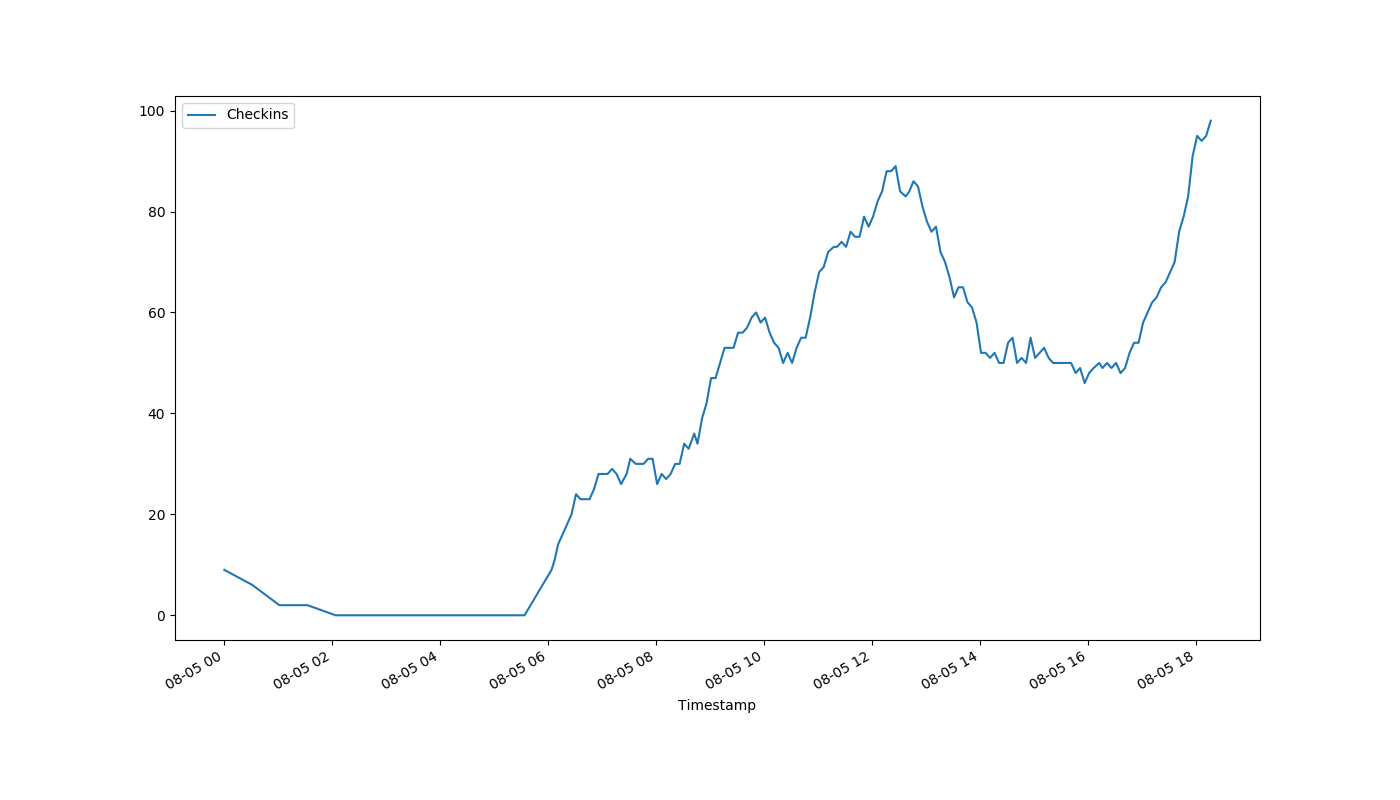
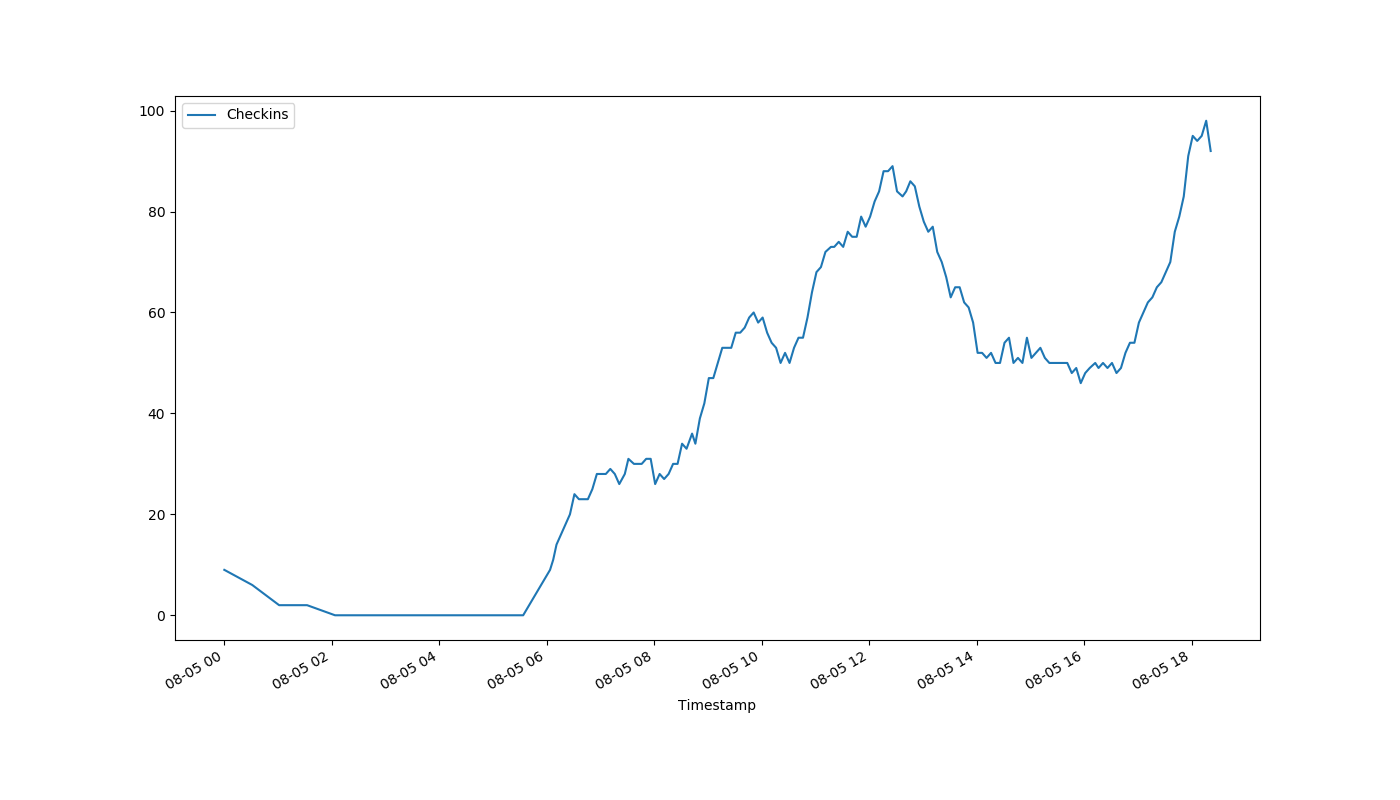
auto-Aug-05-18:22:18

diff --git a/index.html b/index.html
@@ -1,1 +1,1 @@
-<!DOCTYPE html><html><head><meta http-equiv="refresh" content="30"><link rel='stylesheet' href='holmcurrent.css'></head><body><p id='count'>98</p><div id='graph-wrap'><img id='graph' src='holmgraph-Aug-05.png'></div><p id='updated'>Last updated 18:17:02 / 18:16:15</p></body></html>
+<!DOCTYPE html><html><head><meta http-equiv="refresh" content="30"><link rel='stylesheet' href='holmcurrent.css'></head><body><p id='count'>92</p><div id='graph-wrap'><img id='graph' src='holmgraph-Aug-05.png'></div><p id='updated'>Last updated 18:22:02 / 18:21:15</p></body></html>
